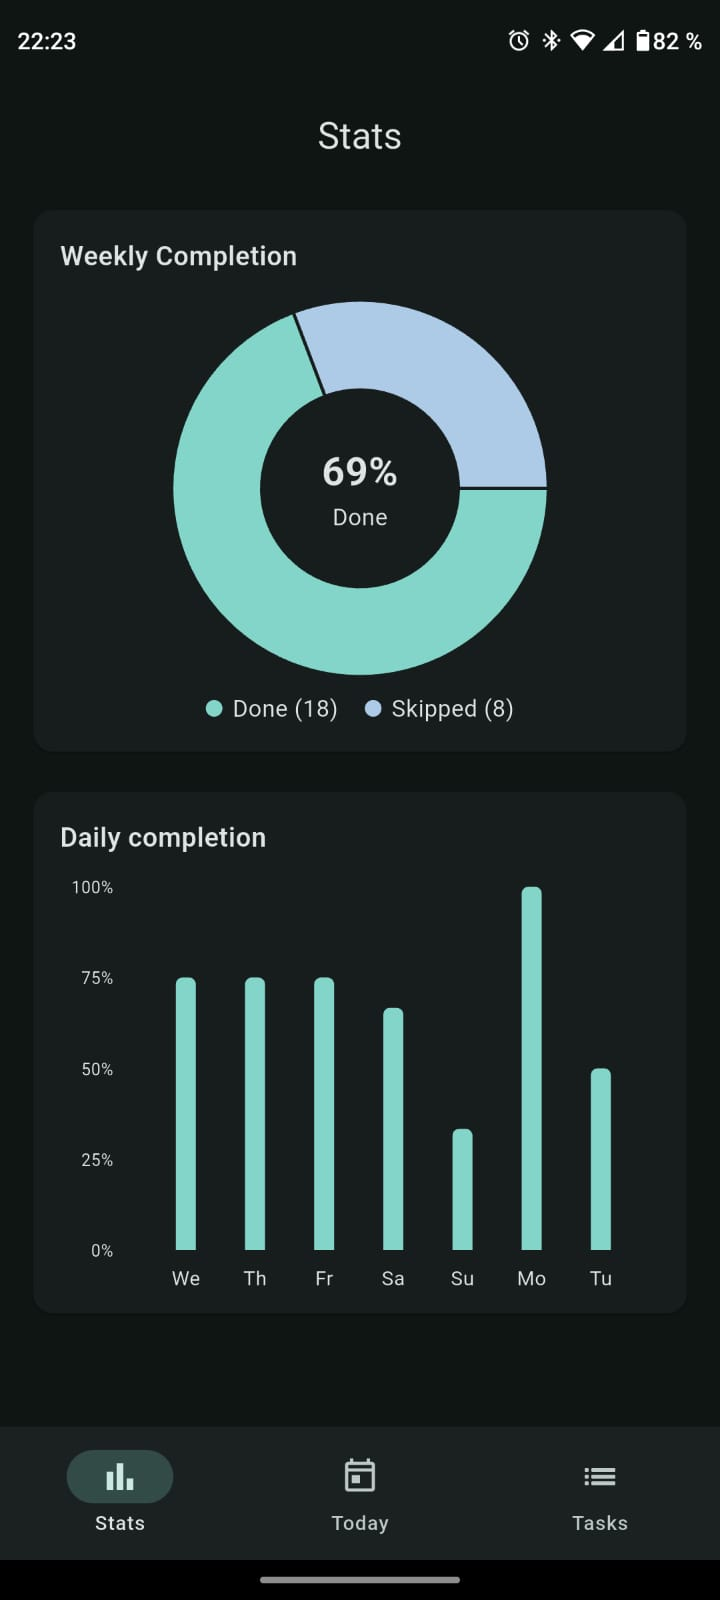
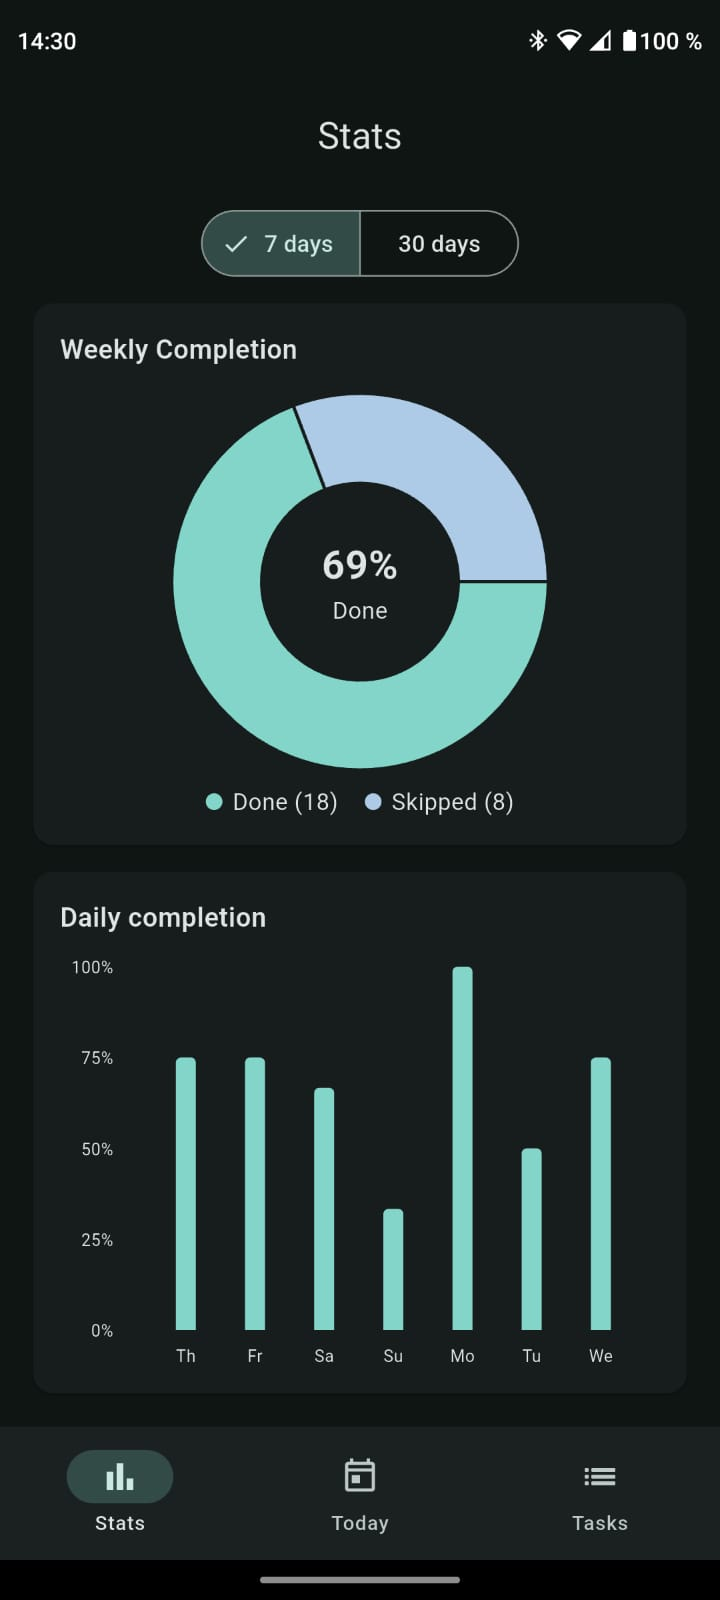
update screenshot in readme and constant weekdays

diff --git a/lib/bottomsheet.dart b/lib/bottomsheet.dart
@@ -1,4 +1,5 @@
 import 'package:flutter/material.dart';
+import 'constants.dart';
 import 'db_helper.dart';
 import 'models/task.dart';
 
@@ -12,15 +13,7 @@ class BottomSheetWidget extends StatefulWidget {
 }
 
 class _BottomSheetWidgetState extends State<BottomSheetWidget> {
-  final List<String> _weekDays = const [
-    'Su',
-    'Mo',
-    'Tu',
-    'We',
-    'Th',
-    'Fr',
-    'Sa',
-  ];
+  final List<String> _weekDays = kWeekDays;
   final Set<String> _selectedDays = <String>{};
   final TextEditingController _titleController = TextEditingController();
   DateTime? _selectedDate;

diff --git a/lib/models/day_stats.dart b/lib/models/day_stats.dart
@@ -1,3 +1,5 @@
+import '../constants.dart';
+
 class DayStats {
   final DateTime date;
   final int done;
@@ -11,6 +13,5 @@ class DayStats {
 
   int get total => done + skipped;
   double get percentage => total == 0 ? 0 : (done / total) * 100;
-  String get dayLabel =>
-      ['Su', 'Mo', 'Tu', 'We', 'Th', 'Fr', 'Sa'][date.weekday % 7];
+  String get dayLabel => kWeekDays[date.weekday % 7];
 }

diff --git a/lib/models/task.dart b/lib/models/task.dart
@@ -1,3 +1,5 @@
+import '../constants.dart';
+
 class Task {
   final int? id;  
   final String title;
@@ -51,7 +53,7 @@ class Task {
       return normalizedSpecificDate == normalizedDate;
     }
 
-    final dayNames = ['Su', 'Mo', 'Tu', 'We', 'Th', 'Fr', 'Sa'];
+    final dayNames = kWeekDays;
     final dayCode = dayNames[normalizedDate.weekday % 7];
     return days.contains(dayCode);
   }

diff --git a/lib/constants.dart b/lib/constants.dart
@@ -1,0 +1,1 @@
+const List<String> kWeekDays = ['Su', 'Mo', 'Tu', 'We', 'Th', 'Fr', 'Sa'];